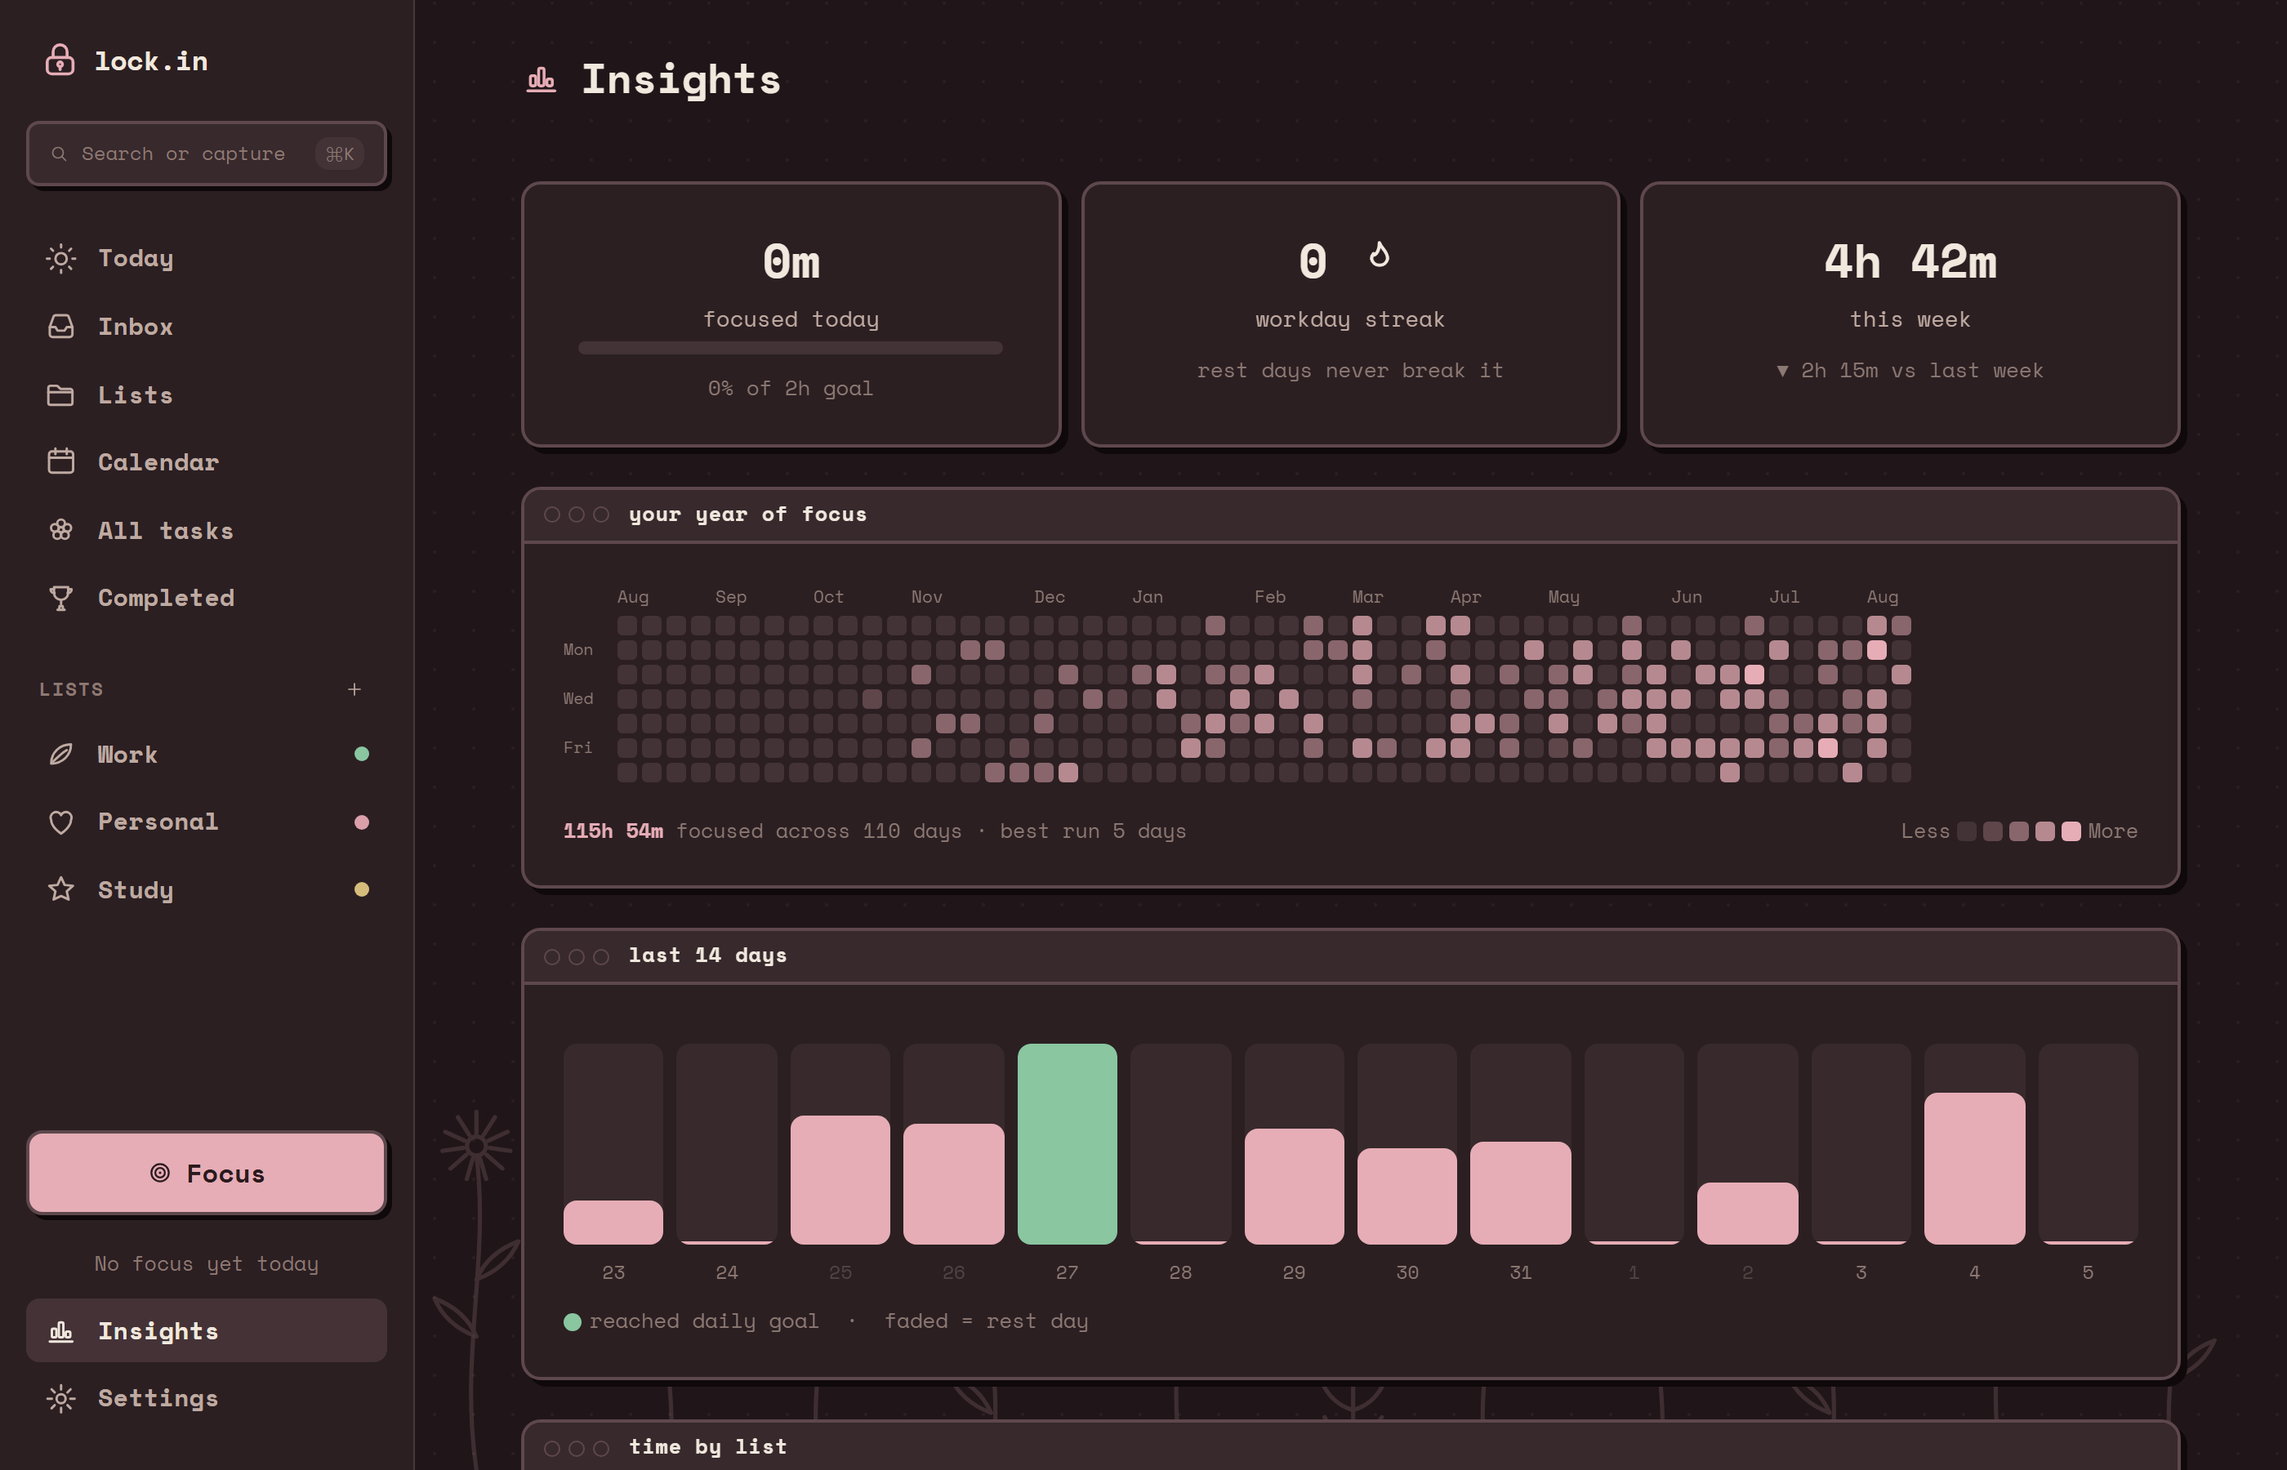
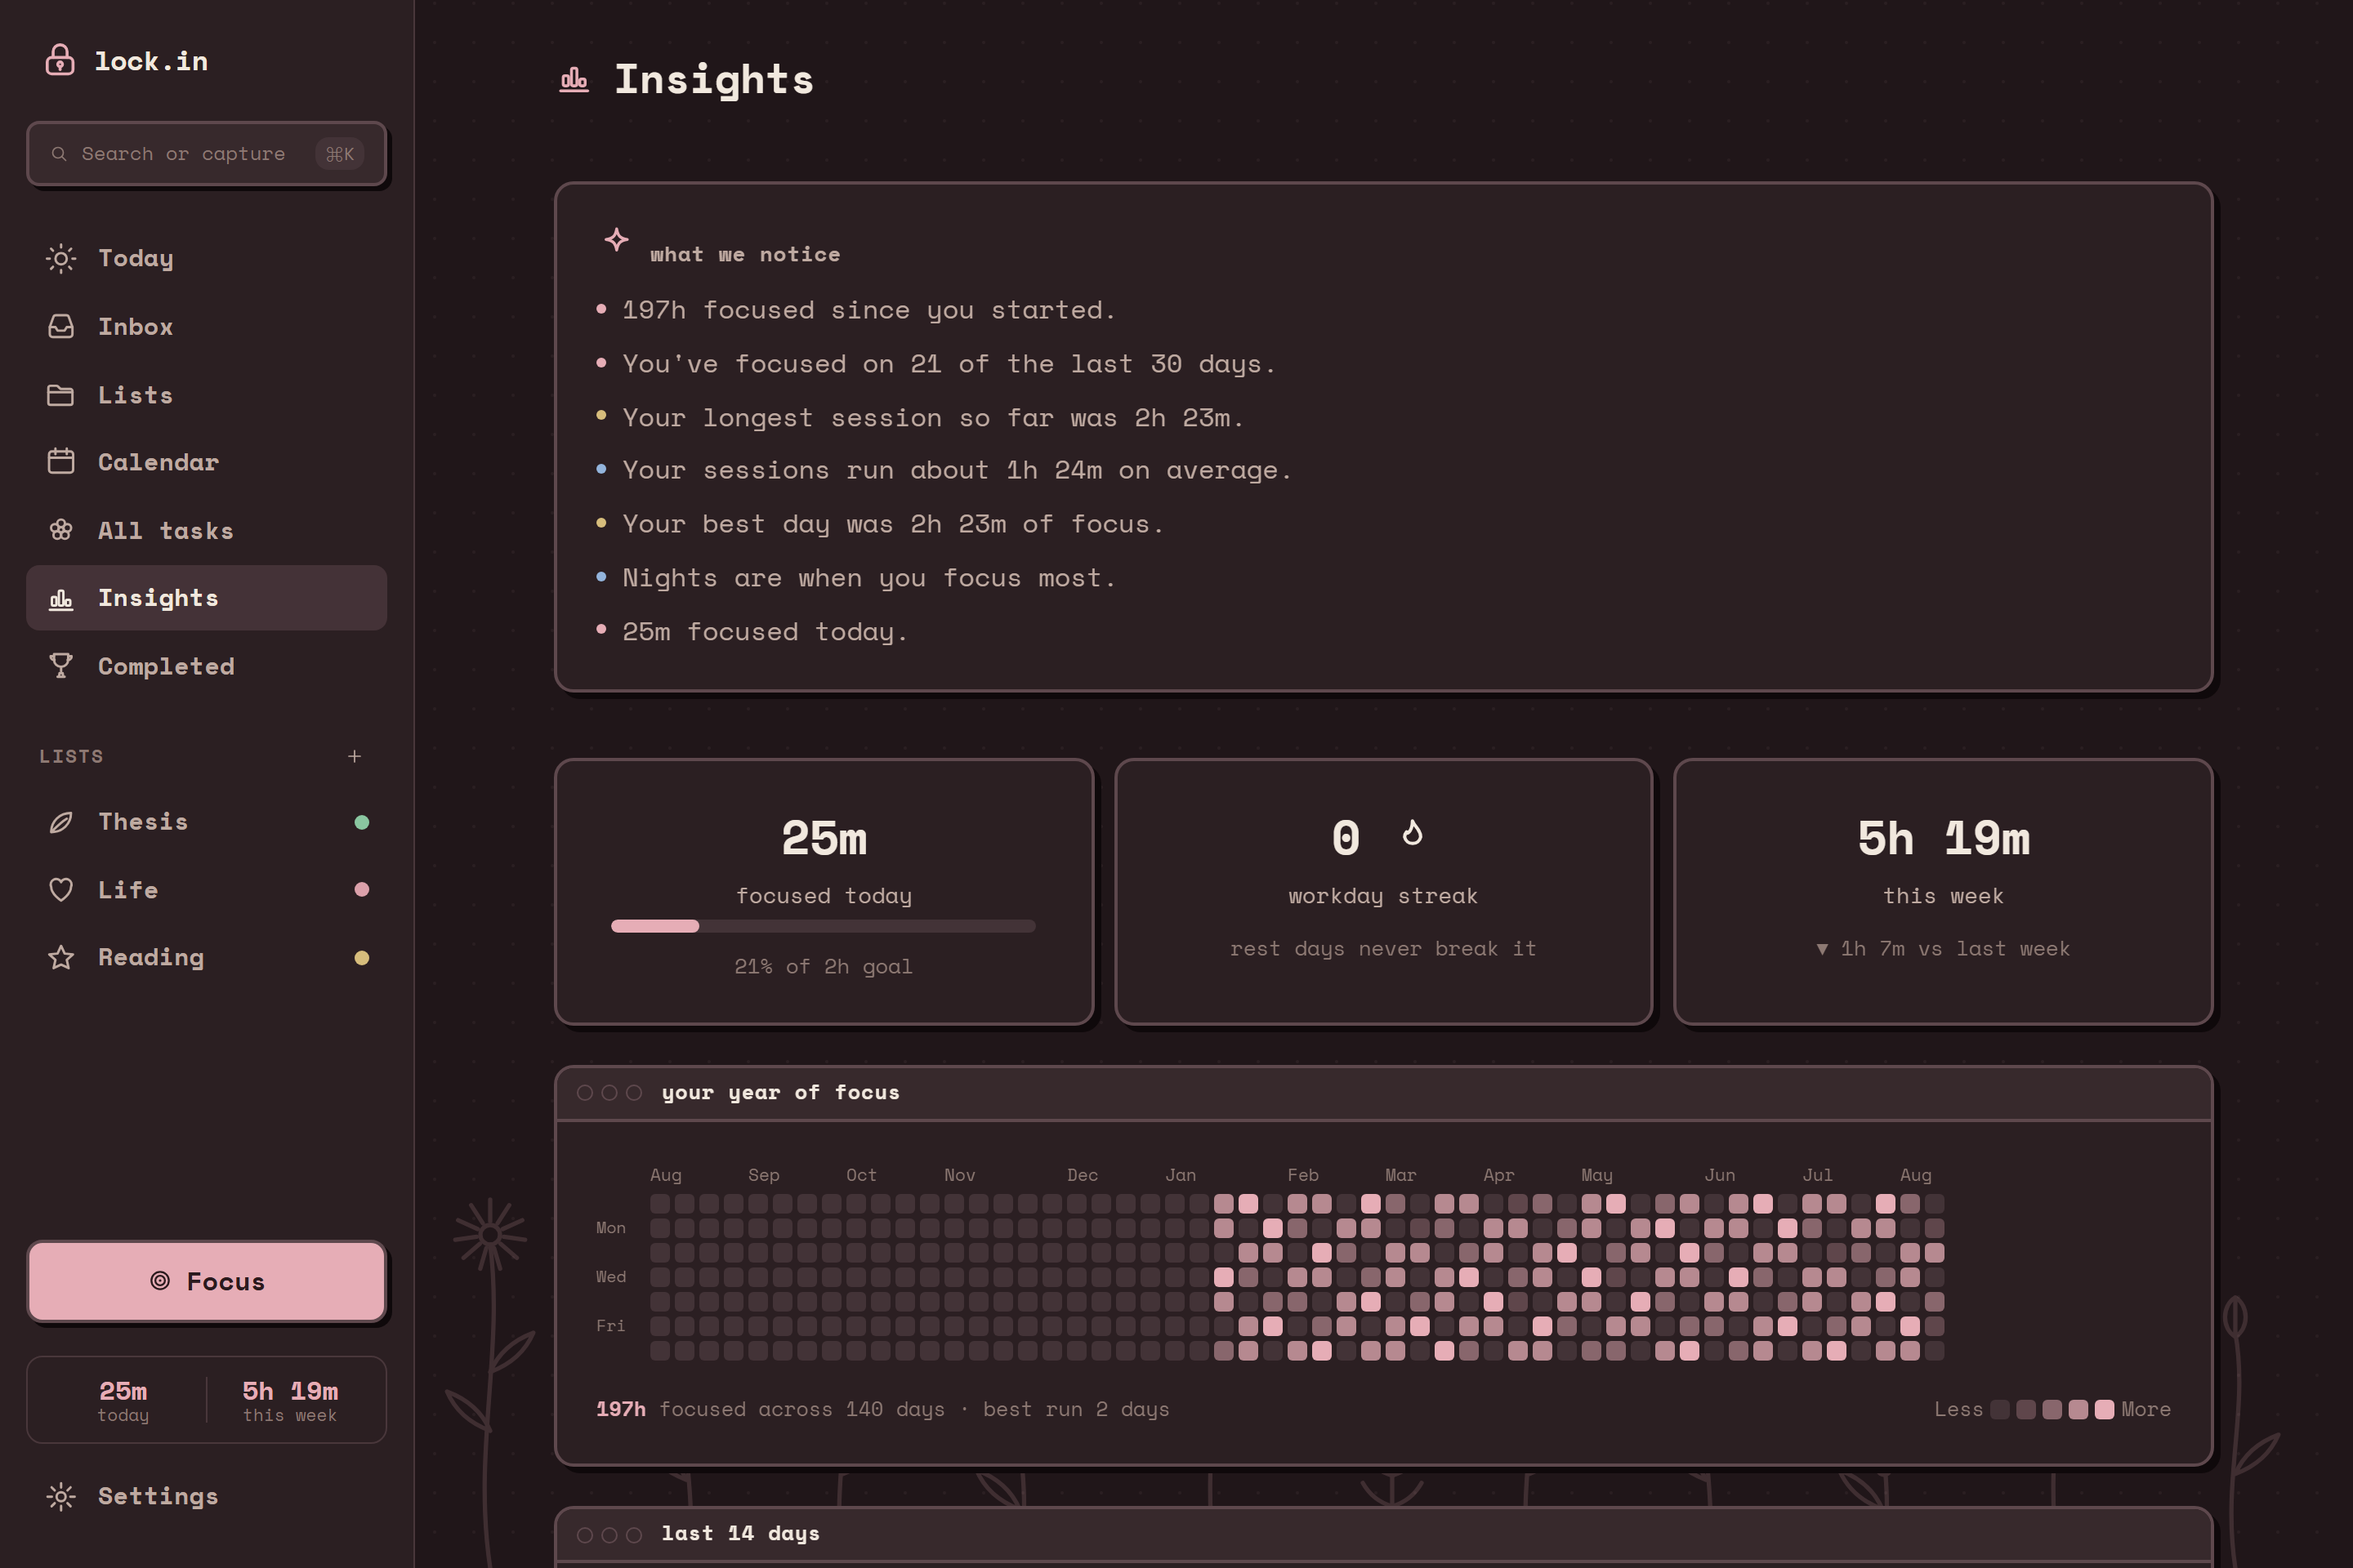
Bring the README and sync guide up to date
The README still described a workday streak that no longer exists, a
site blocker that was hosts-file-only, and said nothing about the launch
page, the floating timer or the observations that replaced the streak.
Screenshots predated the colour work too, so the app in the pictures
wasn't the app you'd download.

Rewrote those sections, regenerated Today and Insights, added a shot of
the launch page, and documented what the blocker actually does now
(both layers, the DoH gap SelfControl leaves open, and the honest limits
-- a VPN still routes around it).

Added a "your data survives updates" section, since the reasonable
question before trusting this with real notes is whether the next change
eats them. It points at compat.test.ts rather than asking for trust.

CLOUD_SYNC gains the email-and-password path written out properly. The
default flow mails a confirmation link that returns to Supabase's
default Site URL of localhost:3000 -- so you confirm and land nowhere.
Turning confirmation off is now a step rather than a troubleshooting
row, and there's a note about closing signups once your own account
exists, since the app is public and its key ships in the bundle.

Copilot-Session: 87884037-54d0-4967-b45f-3a055d461690

diff --git a/README.md b/README.md
@@ -28,7 +28,7 @@ tasks is paralyzing. lock.in is built around how that actually feels:
   — not the whole overwhelming backlog.
 - **A place for stray thoughts.** When your brain throws a random idea mid-focus,
   park it and keep going. It's saved, you can forget it.
-- **Gentle, never punishing.** Timers flex, streaks respect your rest days, and
+- **Gentle, never punishing.** Timers flex, there are no streaks to break, and
   when overdue tasks pile up you can sweep them all onto today in one click
   (undoable) instead of scrolling past a wall of red.
 
@@ -67,11 +67,51 @@ day** to schedule it — drag it back off to unschedule.
 ![Calendar](docs/screenshots/calendar.png)
 
 ### 📊 Insights that motivate, not shame
-Focused hours today and this week, a workday streak that **never breaks on your
-rest days**, a year-of-focus heatmap, a 14-day chart, time-by-list breakdown, and
-your session history.
+Focused hours today and this week, a year-of-focus heatmap, a 14-day chart,
+time-by-list breakdown, and your session history.
+
+There's deliberately **no streak**. A streak is predictable (so it stops
+motivating), pays off late, and has a cliff at the end that tends to take the
+whole habit with it when it breaks — a bad fit for a brain whose inconsistency
+isn't a choice. Instead, Today shows **one true observation at a time**, rotating
+on its own:
+
+> *Your longest session so far was 1h 43m.*
+> *You've focused on 18 of the last 30 days.*
+> *Afternoons are when you focus most.*
+> *You're 20m off your best week.*
+
+Two rules, both enforced by tests: it never says anything the data doesn't
+support, and it never shames — an empty day simply isn't remarked on. It's also
+never silent. Tap it for another; the full set lives on Insights.
 
 ![Insights](docs/screenshots/insights.png)
+
+### 🚀 A launch page that starts you off
+Habits fire from *context*, not good intentions — so lock.in puts itself where
+"I'm about to work" already happens. Set **`#/start`** as your browser's startup
+page and you get a clock, your quick links, a brain-dump box, your year of focus,
+and one button.
+
+Pressing **Lock in** queues what's already due and starts a session — no task
+picker, no duration prompt. Every decision between *"I want to focus"* and a
+running timer is somewhere the intention can leak away.
+
+At the end of a session it asks **"What's first next time?"**, and that's waiting
+for you on the launch page next time. Deciding is cheap while the work is still
+in your head, and expensive tomorrow morning when it's the only thing standing
+between you and starting.
+
+![Launch page](docs/screenshots/start.png)
+
+### ⏱ A timer that floats over everything
+Hit **Float timer** during a session and the clock moves into a small
+always-on-top window that stays visible while you work in another app.
+
+This isn't decoration. ADHD is partly a broken internal clock — time is "now" or
+"not now" — and the standard answer is to put the clock *outside your head*. A
+timer you have to switch tabs to see isn't doing that. (Chrome, Edge and Firefox;
+Safari doesn't support it yet, so the button simply doesn't appear there.)
 
 ### 🔎 Find it — or dump it — in one keystroke
 Hit <kbd>⌘K</kbd> / <kbd>Ctrl+K</kbd> (or just <kbd>/</kbd>) anywhere to search
@@ -81,11 +121,31 @@ place.
 
 ![Search and capture](docs/screenshots/search.png)
 
-### 🚫 Site blocker (desktop app)
-Name the sites that pull you away (YouTube, Reddit, socials…). In the desktop
-app they're blocked **only while a focus session is running**, and work normally
-the rest of the time — the same idea as
+### 🚫 Site blocker (desktop app, macOS-first)
+Name the sites that pull you away (YouTube, Reddit, socials…). In the desktop app
+they're blocked **only while a focus session is running**, and work normally the
+rest of the time — the same idea as
 [SelfControl](https://github.com/SelfControlApp/selfcontrol), built right in.
+
+A hosts file alone is porous, so lock.in blocks at two layers:
+
+- **Hosts file** — every domain and its `www.` form, on IPv4 *and* IPv6, pointed
+  at `0.0.0.0`/`::` so the connection is refused instantly rather than timing out
+  (and never at `127.0.0.1`, where a local dev server would happily answer).
+- **PF firewall** — the resolved addresses are blocked at the packet level, which
+  also catches raw IPs and connections that were already open.
+- **DNS-over-HTTPS resolvers are blocked on port 443**, so browsers fall back to
+  system DNS where the hosts file applies. Port 53 is left alone. *SelfControl
+  itself leaves this open.*
+- The block is **re-asserted every 15 seconds**, so editing `/etc/hosts` back
+  buys you a few seconds rather than the afternoon.
+
+It's layered, never load-bearing: if PF fails the session still starts with hosts
+blocking. It only appends its own anchor to `pf.conf` and releases PF with the
+token `pfctl` handed it, so it can't switch off a firewall something else turned
+on.
+
+**Honest limits:** a VPN reroutes around PF, and your phone isn't affected.
 
 ### 🔔 One gentle reminder a day
 The hardest part of a focus app is remembering it exists. Pick a time and lock.in
@@ -147,11 +207,28 @@ no server, no tracking. That means it's fast and completely private. It also mea
   between them.
 
 Want it on your laptop *and* your desktop? Turn on **cloud sync**: sign in with
-Google or an email & password, and lock.in keeps your tasks in step across
-devices. Signing in is all it takes — there's nothing to configure. It's opt-in,
-free, and row-level security means **only you** can read your own tasks. Running
-your own copy of lock.in? See **[docs/CLOUD_SYNC.md](docs/CLOUD_SYNC.md)** for the
-5-minute Supabase setup. Not signed in? Nothing ever leaves your browser.
+an email & password (Google too, if it's been enabled) and lock.in keeps your
+tasks in step across devices. Signing in is all it takes — there's nothing to
+configure. It's opt-in, free, and row-level security means **only you** can read
+your own tasks. Running your own copy of lock.in? See
+**[docs/CLOUD_SYNC.md](docs/CLOUD_SYNC.md)** for the 5-minute Supabase setup. Not
+signed in? Nothing ever leaves your browser.
+
+Uploads are **revision-checked**: if another device wrote first, the upload is
+refused rather than overwriting it and lock.in asks which copy to keep. Deleting
+things counts as a change, so clearing tasks on one device is never mistaken for
+a fresh install and quietly undone by the old cloud copy.
+
+### Your data survives updates
+
+The app changes often; the data doesn't move. The IndexedDB schema has never left
+version 1, because every field added since is unindexed — so **no migration has
+ever run on your data, and none has ever had the chance to go wrong**.
+
+That's not a promise on trust: `src/data/compat.test.ts` writes records in the
+shape the *first* version of the app produced and asserts the current build can
+read, edit, sweep, observe and back them up without losing a character. If a
+future change would eat existing data, CI fails instead of your laptop.
 
 lock.in is an installable **PWA**: open it in your browser and it works offline;
 click *Install* to run it in its own window like a native app.
@@ -163,6 +240,11 @@ click *Install* to run it in its own window like a native app.
 ### Use it in your browser (nothing to install)
 Just open **<https://niceyraiyani.github.io/lock.in/>**. To keep it handy,
 click the install icon in your address bar to pin it as an app.
+
+**Make it your startup page.** Chrome → Settings → *On startup* → **Open a
+specific page** → `https://niceyraiyani.github.io/lock.in/#/start`. Opening the
+browser then *is* opening lock.in, which is the whole point — it's a separate
+setting from your new tab page, so whatever you use for that stays as it is.
 
 ### Download the desktop app (adds real site blocking)
 Grab the latest installer from the

diff --git a/docs/CLOUD_SYNC.md b/docs/CLOUD_SYNC.md
@@ -90,9 +90,30 @@ by design; without your login it can't touch your data.
 10. Paste both values and click **Connect**.
 
 **Only want email + password?** You're done — click **Need an account?**, enter an email and
-password, and you're syncing.
+password, and you're syncing. See *Turn off email confirmation* below first; it saves a
+detour.
 
 > This connects *this device only*. To make it the default for everyone, do Part 6 as well.
+
+---
+
+## Part 3b — Turn off email confirmation (30 sec, recommended)
+
+Out of the box Supabase emails you a confirmation link before a new account works. The link
+returns to your project's **Site URL**, which defaults to `localhost:3000` — so you confirm
+successfully and then land on a dead page. For a personal app it's pure friction.
+
+**Authentication → Sign In / Providers → Email → turn off *Confirm email* → Save.**
+
+Sign-up then works instantly. (If you'd rather keep confirmation on, set
+**Authentication → URL Configuration → Site URL** to
+`https://niceyraiyani.github.io/lock.in/` first, so the link lands somewhere real.)
+
+> Once your own account exists, consider turning **off** *Allow new users to sign up* on the
+> same screen. The app is public and the key ships in the JavaScript, so anyone who finds it
+> could otherwise create an account in your project. Row-level security means they could never
+> see your data — but there's no reason to host strangers. Turning it off doesn't affect you:
+> **signing in on a new device still works**, it just blocks new accounts.
 
 ---
 
@@ -171,11 +192,18 @@ For local development, copy `.env.example` to `.env.local` and fill in the same 
 
 ## Test it
 
-**Settings → Account & cloud sync → Continue with Google.** After signing in you should see your
-email and **"Synced just now"**.
+**Settings → Account & cloud sync.**
 
-To bring in another device: open the same address there, sign in with the same account, and your
-tasks download automatically.
+1. **First device:** click **Need an account?**, enter an email and a password, then
+   **Create account**. You should see your email and **"Synced just now"**.
+2. **Every other device:** open the same address, same screen, enter the same details and
+   click **Sign in**. Your tasks download automatically.
+
+Only providers your project has enabled are offered, so if you don't see **Continue with
+Google**, Google isn't switched on (Part 4) — email and password work regardless.
+
+To move an existing device's data up: sign in there *first*. A device with tasks and an empty
+cloud uploads; a signed-in empty device downloads.
 
 ---
 
